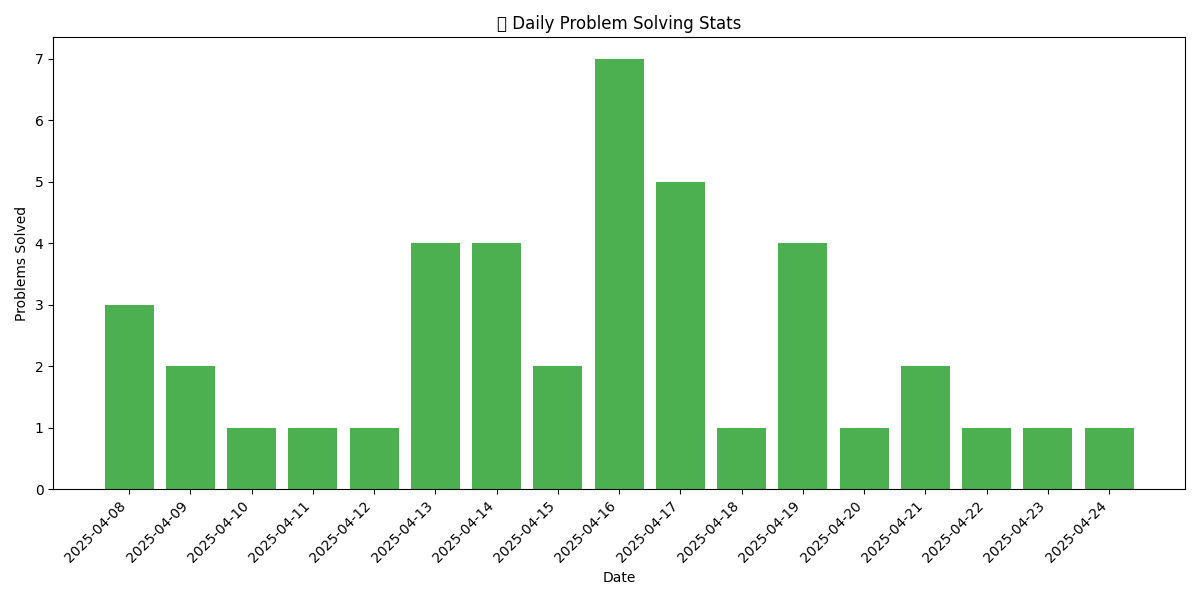
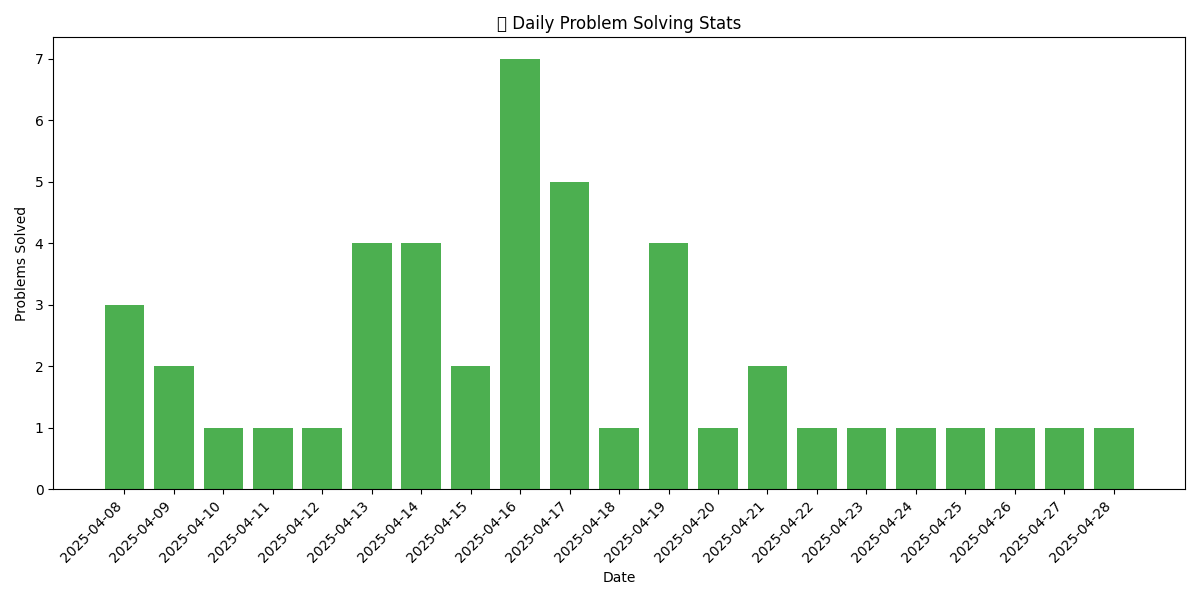
bar chart and heatmap generated

Changed region(s): [[0.0308, 0.09, 0.925, 0.93]]

diff --git a/2025-04-28/top_k_frequent_elements.md b/2025-04-28/top_k_frequent_elements.md
@@ -9,25 +9,26 @@
 ---
 
 ## ✅ Problem Statement
-Given an integer array nums and an integer k, return the k most frequent elements. You may return the answer in any order.
-Example 1:
-  - Input: nums = [1,1,1,2,2,3], k = 2
-  - Output: [1,2]
-Example 2:
-  - Input: nums = [1], k = 1
-  - Output: [1]
+Given an integer array `nums` and an integer `k`, return the `k` most frequent elements.  
+You may return the answer in **any order**.
+
+**Example 1**:
+- Input: `nums = [1,1,1,2,2,3]`, `k = 2`
+- Output: `[1,2]`
+
+**Example 2**:
+- Input: `nums = [1]`, `k = 1`
+- Output: `[1]`
 
 ---
 
 ## 🚀 Approach
- - Use a hashmap (count) to store the frequency of each element.
- - Use a bucket sort idea:
-    - Create a list of empty lists freq, where freq[i] holds numbers that appear exactly i times.
-
- - Traverse count and populate freq.
- - Then traverse freq from the highest possible frequency down to the lowest:
-    - Add elements to the result until we have collected k elements.
-
+ - Use a **hashmap** (`count`) to store the frequency of each element.
+- Use a **bucket sort** idea:
+  - Create a list of empty lists `freq`, where `freq[i]` holds numbers that appear exactly `i` times.
+- Traverse `count` and populate `freq`.
+- Then traverse `freq` from the **highest frequency to the lowest**:
+  - Keep adding elements to the result until we have collected `k` elements.
 
 ---
 
